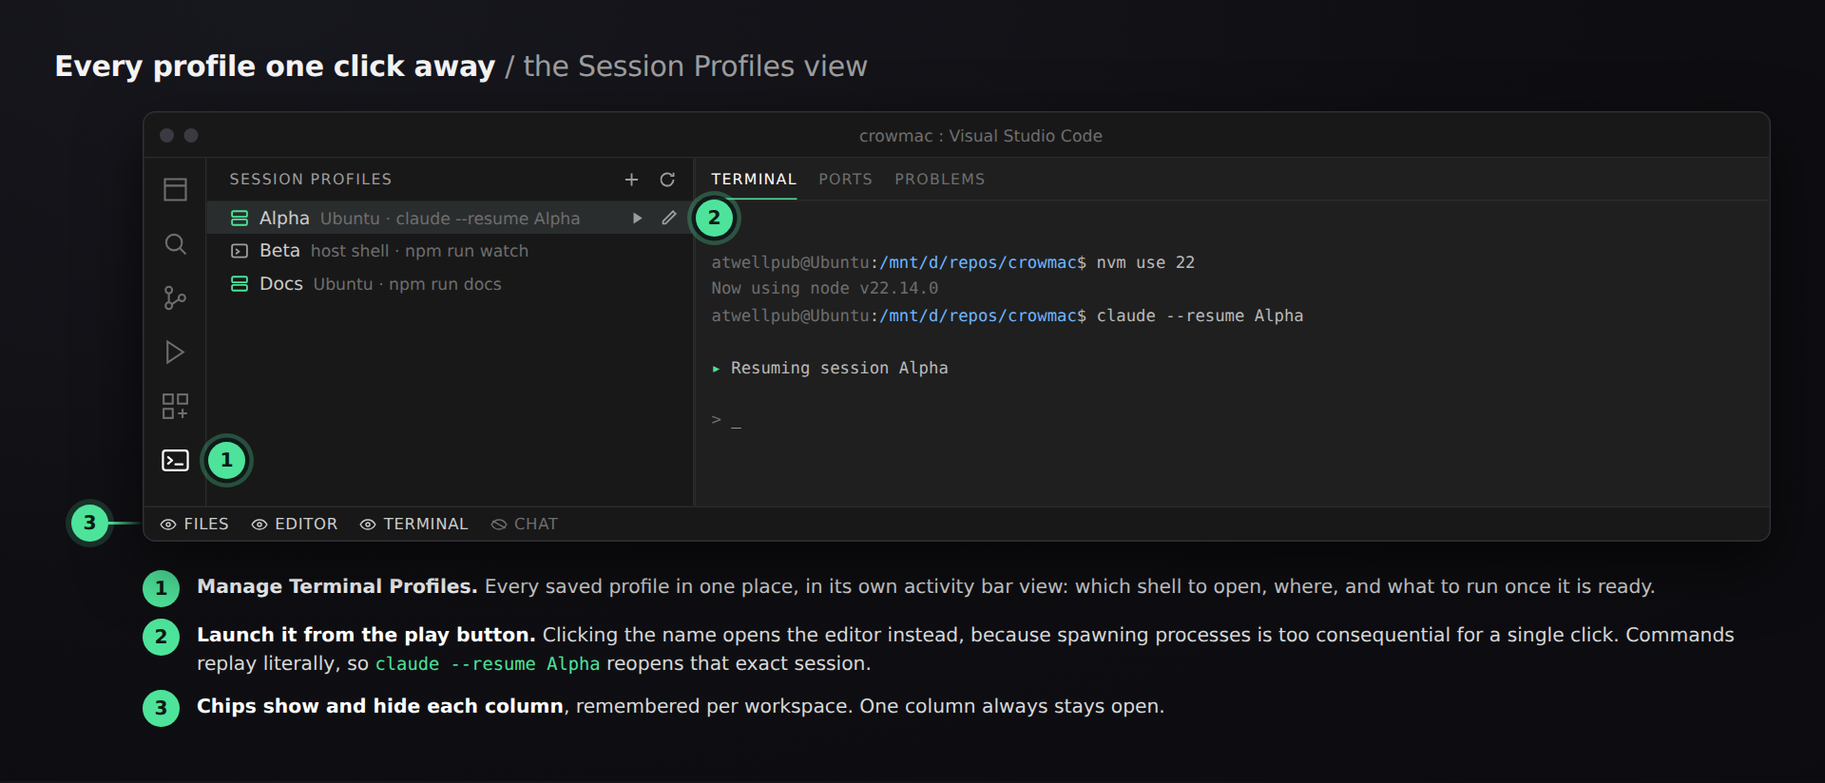
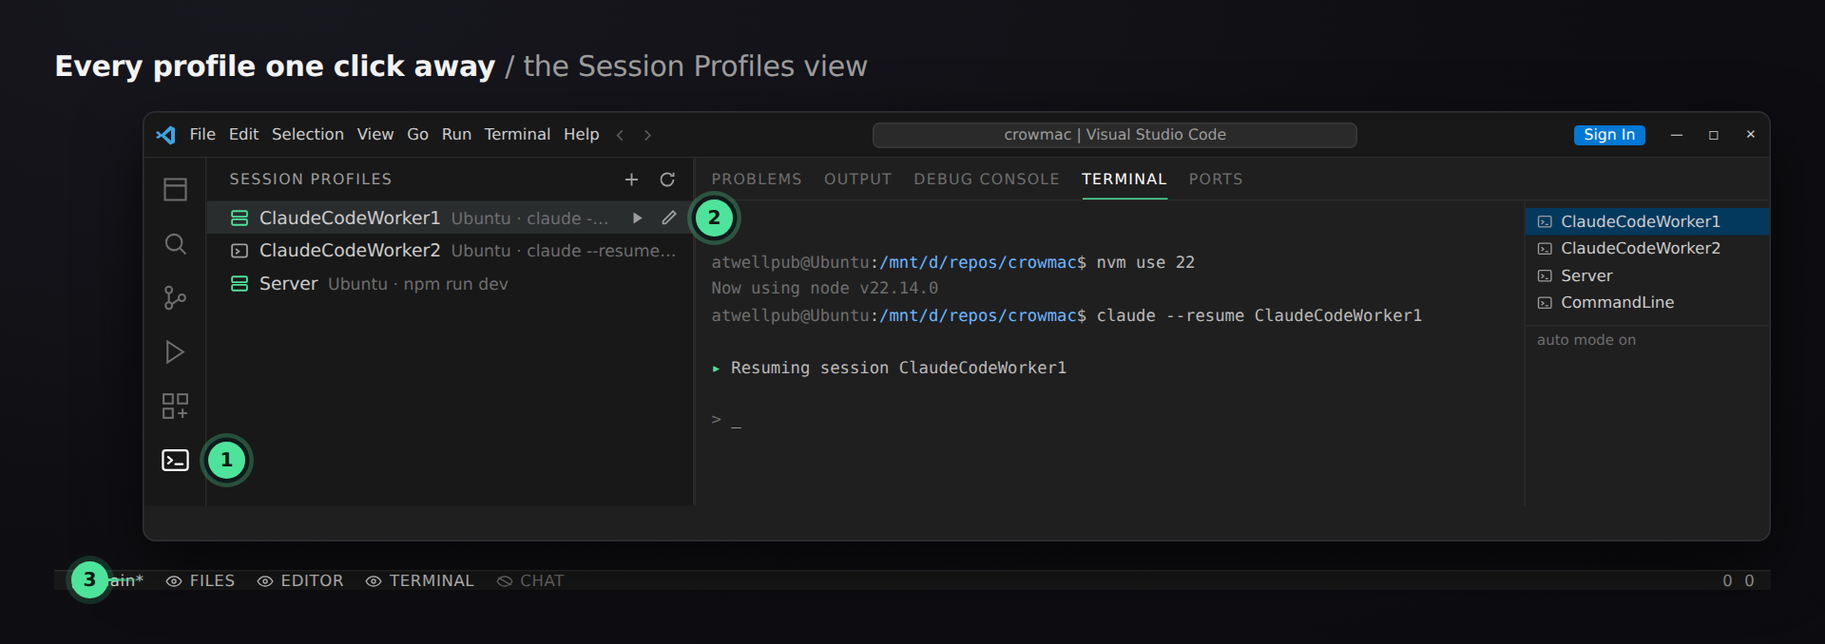
Bring the listing screenshots up to the demo's accuracy
The listing renders from screenshots.html, which had fallen behind demo.html
while the video was being fixed. It showed a two-dots-and-a-title mock with no
VS Code logo, no menu bar and, worse, no terminal list in the panel, which is
exactly where profile names surface. Anyone who watched the demo and then opened
the listing saw two different applications.

Ported from demo.html: the title bar with logo, menu, command pill, Sign In and
window controls; the real five-tab terminal row with its list; the branch and
diagnostics clusters in the status bar. The profile form gains uppercase labels
and the SAVED IN control it has shipped with since 0.3.1.

Examples renamed to ClaudeCodeWorker1/2, Server and CommandLine so the README,
the screenshots and the video finally agree. The one README mention of Alpha
that stays gone rather than renamed was a real observation from sow-001 testing
against a terminal actually called Alpha; the name is dropped so the sentence
stays true.

Deliberate duplication rather than a shared chrome module: demo.html is finished
and refactoring it to prove a DRY point would risk the 99s render for nothing a
viewer sees. Two copies is tolerable. A third is the trigger to extract.

sow-001 moves to 3_completed. Its phase line still called the restore step
outstanding; restore.ts:71-99 implements it, pid check included.

diff --git a/scripts/screenshots.html b/scripts/screenshots.html
@@ -51,7 +51,23 @@
     border: 1px solid #303038; border-radius: 9px; overflow: hidden; background: var(--bg);
     box-shadow: 0 16px 44px rgba(0,0,0,.6); display: grid; grid-template-rows: 32px 1fr 24px;
   }
-  .titlebar { background: var(--chrome); border-bottom: 1px solid var(--border); display: flex; align-items: center; gap: 7px; padding: 0 11px; }
+  .titlebar { background: var(--chrome); border-bottom: 1px solid var(--border); display: flex; align-items: center; gap: 9px; padding: 0 0 0 7px; overflow: hidden; }
+  .vslogo { width: 16px; height: 16px; flex: none; }
+  .menubar { display: flex; gap: 9px; font-size: 11px; color: #cccccc; white-space: nowrap; flex: none; }
+  .navb { display: flex; gap: 7px; color: #5a5a5a; flex: none; }
+  .navb svg { width: 12px; height: 12px; }
+  .pill { flex: 1; min-width: 0; max-width: 340px; margin: 0 auto; background: #2a2a2a; border: 1px solid #3a3a3a;
+    border-radius: 5px; height: 18px; display: flex; align-items: center; justify-content: center;
+    color: #9d9d9d; font-size: 10.5px; white-space: nowrap; overflow: hidden; }
+  .signin { background: #0078d4; color: #fff; font-size: 10.5px; border-radius: 3px; padding: 1px 7px; flex: none; }
+  .wctl { display: flex; flex: none; }
+  .wctl span { width: 26px; height: 26px; display: grid; place-items: center; color: #cfcfcf; font-size: 9px; }
+  .term-split { display: grid; grid-template-columns: 1fr 172px; min-height: 0; }
+  .term-list { border-left: 1px solid var(--border); padding: 5px 0; font-size: 11px; }
+  .term-list .ti { display: flex; align-items: center; gap: 6px; padding: 3px 8px; color: var(--text); }
+  .term-list .ti.on { background: #04395e; }
+  .term-list .ti svg { width: 11px; height: 11px; flex: none; color: var(--muted); }
+  .agentbar { border-top: 1px solid #2a2a2a; margin-top: 6px; padding: 5px 8px 0; color: var(--dim); font-size: 10px; }
   .dot { width: 10px; height: 10px; border-radius: 50%; background: #3a3a40; }
   .title { flex: 1; text-align: center; color: var(--dim); font-size: 11.5px; }
   .body { display: grid; min-height: 0; }
@@ -86,7 +102,7 @@
   .mgr-item.on { background: var(--focus); color: #fff; box-shadow: inset 2px 0 0 var(--green); }
   .form { padding: 16px 22px; display: grid; gap: 10px; align-content: start; }
   .field { display: grid; grid-template-columns: 122px 1fr; align-items: center; gap: 12px; }
-  .field label { font-size: 12px; color: var(--muted); }
+  .field label { font-size: 10.5px; letter-spacing: .07em; color: var(--muted); }
   .input { background: #2a2a2a; border: 1px solid #3a3a3a; border-radius: 3px; padding: 4px 8px; font-size: 12px; color: var(--text); font-family: var(--mono); }
   .check { display: flex; align-items: center; gap: 8px; font-size: 12px; color: var(--text); }
   .box { width: 12px; height: 12px; border-radius: 2px; background: var(--accent); position: relative; flex: none; }
@@ -141,6 +157,11 @@
         if (pin.dataset.place === 'right') {
           pin.classList.add('inline');
           pin.style.left = Math.round(r.right - s.left + 12) + 'px';
+        } else if (pin.dataset.place === 'left') {
+          // Marks a column from inside its own edge. Placing it on the right
+          // would put it over the neighbour and read as pointing at that.
+          pin.classList.add('inline');
+          pin.style.left = Math.round(r.left - s.left + 10) + 'px';
         } else {
           pin.style.left = '12px';
         }
@@ -157,7 +178,7 @@
     <div class="pin" data-target=".row.sel .inline" data-place="right">2</div>
     <div class="pin" data-target=".statusbar" data-place="gutter">3</div>
     <div class="win" style="height: 302px;">
-      <div class="titlebar"><span class="dot"></span><span class="dot"></span><div class="title">crowmac : Visual Studio Code</div></div>
+      <div class="titlebar"><svg class="vslogo" viewBox="0 0 24 24"><path d="M17.6 2.2 21.4 4a1 1 0 0 1 .6.9v14.2a1 1 0 0 1-.6.9l-3.8 1.8a1 1 0 0 1-1.1-.2L7.8 13l-3.4 2.6-1.9-1a.7.7 0 0 1 0-1.2L5.2 12 2.5 9.6a.7.7 0 0 1 0-1.2l1.9-1L7.8 11l8.7-8.6a1 1 0 0 1 1.1-.2Zm.4 4.3L11.4 12l6.6 5.5V6.5Z" fill="#3fa2e0"/></svg><div class="menubar"><span>File</span><span>Edit</span><span>Selection</span><span>View</span><span>Go</span><span>Run</span><span>Terminal</span><span>Help</span></div><div class="navb"><svg viewBox="0 0 16 16" fill="none" stroke="currentColor" stroke-width="1.5"><path d="M10 3.5 5.5 8l4.5 4.5"/></svg><svg viewBox="0 0 16 16" fill="none" stroke="currentColor" stroke-width="1.5"><path d="M6 3.5 10.5 8 6 12.5"/></svg></div><div class="pill">crowmac | Visual Studio Code</div><span class="signin">Sign In</span><div class="wctl"><span>&#8212;</span><span>&#9723;</span><span>&#10005;</span></div></div>
       <div class="body" style="grid-template-columns: 44px 342px 1fr;">
         <div class="activity">
           <svg class="act" viewBox="0 0 24 24" fill="none" stroke="currentColor" stroke-width="1.5"><path d="M4 4h16v16H4z"/><path d="M4 9h16"/></svg>
@@ -176,7 +197,7 @@
           </div>
           <div class="row sel">
             <svg class="ico" viewBox="0 0 16 16" fill="none" stroke="var(--green)" stroke-width="1.4"><rect x="2" y="2.5" width="12" height="4.5" rx="1"/><rect x="2" y="9" width="12" height="4.5" rx="1"/></svg>
-            <span>Alpha</span><span class="desc">Ubuntu &middot; claude --resume Alpha</span>
+            <span>ClaudeCodeWorker1</span><span class="desc">Ubuntu &middot; claude --resume ClaudeCodeWorker1</span>
             <span class="inline">
               <svg class="ico" viewBox="0 0 16 16" fill="currentColor"><path d="M5 3.5l7 4.5-7 4.5z"/></svg>
               <svg class="ico" viewBox="0 0 16 16" fill="none" stroke="currentColor" stroke-width="1.4"><path d="M11.5 2.5l2 2-8 8H3.5v-2z"/></svg>
@@ -184,37 +205,40 @@
           </div>
           <div class="row">
             <svg class="ico" viewBox="0 0 16 16" fill="none" stroke="var(--muted)" stroke-width="1.4"><rect x="2" y="3" width="12" height="10" rx="1.5"/><path d="M5 6.5L7.5 8.5 5 10.5"/></svg>
-            <span>Beta</span><span class="desc">host shell &middot; npm run watch</span>
+            <span>ClaudeCodeWorker2</span><span class="desc">Ubuntu &middot; claude --resume ClaudeCodeWorker2</span>
           </div>
           <div class="row">
             <svg class="ico" viewBox="0 0 16 16" fill="none" stroke="var(--green)" stroke-width="1.4"><rect x="2" y="2.5" width="12" height="4.5" rx="1"/><rect x="2" y="9" width="12" height="4.5" rx="1"/></svg>
-            <span>Docs</span><span class="desc">Ubuntu &middot; npm run docs</span>
+            <span>Server</span><span class="desc">Ubuntu &middot; npm run dev</span>
           </div>
         </div>
         <div class="term">
-          <div class="term-head"><span class="on">TERMINAL</span><span>PORTS</span><span>PROBLEMS</span></div>
-          <div class="term-body" style="padding-top:34px">
+            <div class="term-head"><span>PROBLEMS</span><span>OUTPUT</span><span>DEBUG CONSOLE</span><span class="on">TERMINAL</span><span>PORTS</span></div>
+            <div class="term-split">
+              <div class="term-body" style="padding-top:34px">
             <div><span class="d">atwellpub@Ubuntu</span>:<span class="b">/mnt/d/repos/crowmac</span>$ nvm use 22</div>
             <div class="d">Now using node v22.14.0</div>
-            <div><span class="d">atwellpub@Ubuntu</span>:<span class="b">/mnt/d/repos/crowmac</span>$ claude --resume Alpha</div>
+            <div><span class="d">atwellpub@Ubuntu</span>:<span class="b">/mnt/d/repos/crowmac</span>$ claude --resume ClaudeCodeWorker1</div>
             <div class="d">&nbsp;</div>
-            <div><span class="g">&#9656;</span> Resuming session Alpha</div>
+            <div><span class="g">&#9656;</span> Resuming session ClaudeCodeWorker1</div>
             <div class="d">&nbsp;</div>
-            <div><span class="d">&gt;</span> <span style="color:#e8e8e8">_</span></div>
-          </div>
+            <div><span class="d">&gt;</span> <span style="color:#e8e8e8">_</span></div></div>
+              <div class="term-list"><div class="ti on"><svg viewBox="0 0 16 16" fill="none" stroke="currentColor" stroke-width="1.3"><rect x="1.5" y="2.5" width="13" height="11" rx="1.5"/><path d="M4.5 6.5 6.8 8.5 4.5 10.5"/><path d="M8.5 11h3"/></svg><span>ClaudeCodeWorker1</span></div><div class="ti"><svg viewBox="0 0 16 16" fill="none" stroke="currentColor" stroke-width="1.3"><rect x="1.5" y="2.5" width="13" height="11" rx="1.5"/><path d="M4.5 6.5 6.8 8.5 4.5 10.5"/><path d="M8.5 11h3"/></svg><span>ClaudeCodeWorker2</span></div><div class="ti"><svg viewBox="0 0 16 16" fill="none" stroke="currentColor" stroke-width="1.3"><rect x="1.5" y="2.5" width="13" height="11" rx="1.5"/><path d="M4.5 6.5 6.8 8.5 4.5 10.5"/><path d="M8.5 11h3"/></svg><span>Server</span></div><div class="ti"><svg viewBox="0 0 16 16" fill="none" stroke="currentColor" stroke-width="1.3"><rect x="1.5" y="2.5" width="13" height="11" rx="1.5"/><path d="M4.5 6.5 6.8 8.5 4.5 10.5"/><path d="M8.5 11h3"/></svg><span>CommandLine</span></div><div class="agentbar">auto mode on</div></div>
+            </div>
+          </div></div>
         </div>
       </div>
-      <div class="statusbar">
+      <div class="statusbar"><span class="chip" style="color:#cfcfcf"><svg class="eye" viewBox="0 0 16 16" fill="none" stroke="currentColor" stroke-width="1.3"><circle cx="4.5" cy="3.5" r="1.8"/><circle cx="4.5" cy="12.5" r="1.8"/><circle cx="11.5" cy="8" r="1.8"/><path d="M4.5 5.3v5.4M6.2 11.4 9.9 9.1"/></svg>main*</span>
         <span class="chip"><svg class="eye" viewBox="0 0 16 16" fill="none" stroke="currentColor" stroke-width="1.3"><path d="M1 8s2.5-4.5 7-4.5S15 8 15 8s-2.5 4.5-7 4.5S1 8 1 8z"/><circle cx="8" cy="8" r="1.8"/></svg>FILES</span>
         <span class="chip"><svg class="eye" viewBox="0 0 16 16" fill="none" stroke="currentColor" stroke-width="1.3"><path d="M1 8s2.5-4.5 7-4.5S15 8 15 8s-2.5 4.5-7 4.5S1 8 1 8z"/><circle cx="8" cy="8" r="1.8"/></svg>EDITOR</span>
         <span class="chip"><svg class="eye" viewBox="0 0 16 16" fill="none" stroke="currentColor" stroke-width="1.3"><path d="M1 8s2.5-4.5 7-4.5S15 8 15 8s-2.5 4.5-7 4.5S1 8 1 8z"/><circle cx="8" cy="8" r="1.8"/></svg>TERMINAL</span>
-        <span class="chip off"><svg class="eye" viewBox="0 0 16 16" fill="none" stroke="currentColor" stroke-width="1.3"><path d="M2 4.5l12 7"/><path d="M1 8s2.5-4.5 7-4.5S15 8 15 8s-2.5 4.5-7 4.5S1 8 1 8z"/></svg>CHAT</span>
+        <span class="chip off"><svg class="eye" viewBox="0 0 16 16" fill="none" stroke="currentColor" stroke-width="1.3"><path d="M2 4.5l12 7"/><path d="M1 8s2.5-4.5 7-4.5S15 8 15 8s-2.5 4.5-7 4.5S1 8 1 8z"/></svg>CHAT</span><span class="chip" style="margin-left:auto;color:#9d9d9d">0 &nbsp;0</span>
       </div>
     </div>
   </div>
   <div class="notes">
     <div class="note"><div class="num">1</div><p><b>Manage Terminal Profiles.</b> Every saved profile in one place, in its own activity bar view. Each is a saved terminal setup: which shell to open, where, and what to run once it is ready.</p></div>
-    <div class="note"><div class="num">2</div><p><b>Launch it from the play button.</b> Clicking the name opens the editor instead, because spawning processes is too consequential for a single click. Commands replay literally, so <code>claude --resume Alpha</code> reopens that exact session.</p></div>
+    <div class="note"><div class="num">2</div><p><b>Launch it from the play button.</b> Clicking the name opens the editor instead, because spawning processes is too consequential for a single click. Commands replay literally, so <code>claude --resume ClaudeCodeWorker1</code> reopens that exact session.</p></div>
     <div class="note"><div class="num">3</div><p><b>Chips show and hide each column</b>, remembered per workspace. One column always stays open.</p></div>
   </div>
 </div>
@@ -227,21 +251,21 @@
     <div class="pin" data-target=".form .check" data-place="gutter">2</div>
     <div class="pin" data-target=".form .cmd" data-place="gutter">3</div>
     <div class="win" style="height: 392px;">
-      <div class="titlebar"><span class="dot"></span><span class="dot"></span><div class="title">crowmac : Visual Studio Code</div></div>
+      <div class="titlebar"><svg class="vslogo" viewBox="0 0 24 24"><path d="M17.6 2.2 21.4 4a1 1 0 0 1 .6.9v14.2a1 1 0 0 1-.6.9l-3.8 1.8a1 1 0 0 1-1.1-.2L7.8 13l-3.4 2.6-1.9-1a.7.7 0 0 1 0-1.2L5.2 12 2.5 9.6a.7.7 0 0 1 0-1.2l1.9-1L7.8 11l8.7-8.6a1 1 0 0 1 1.1-.2Zm.4 4.3L11.4 12l6.6 5.5V6.5Z" fill="#3fa2e0"/></svg><div class="menubar"><span>File</span><span>Edit</span><span>Selection</span><span>View</span><span>Go</span><span>Run</span><span>Terminal</span><span>Help</span></div><div class="navb"><svg viewBox="0 0 16 16" fill="none" stroke="currentColor" stroke-width="1.5"><path d="M10 3.5 5.5 8l4.5 4.5"/></svg><svg viewBox="0 0 16 16" fill="none" stroke="currentColor" stroke-width="1.5"><path d="M6 3.5 10.5 8 6 12.5"/></svg></div><div class="pill">crowmac | Visual Studio Code</div><span class="signin">Sign In</span><div class="wctl"><span>&#8212;</span><span>&#9723;</span><span>&#10005;</span></div></div>
       <div class="body">
         <div class="pane">
           <div class="tabs"><div class="tab on">Terminal Session Profiles</div><div class="tab">engine.ts</div></div>
           <div class="mgr">
             <div class="mgr-list">
               <div class="mgr-head"><span>PROFILES</span><span>+</span></div>
-              <div class="mgr-item on">Alpha</div>
-              <div class="mgr-item">Beta</div>
-              <div class="mgr-item">Docs</div>
+              <div class="mgr-item on">ClaudeCodeWorker1</div>
+              <div class="mgr-item">ClaudeCodeWorker2</div>
+              <div class="mgr-item">Server</div>
             </div>
             <div class="form">
-              <div class="field"><label>Name</label><div class="input">Alpha</div></div>
-              <div class="field"><label>Shell</label><div class="input">Ubuntu (WSL)</div></div>
-              <div class="field"><label>Working directory</label><div class="input">/mnt/d/repos/crowmac</div></div>
+              <div class="field"><label>NAME</label><div class="input">ClaudeCodeWorker1</div></div>
+              <div class="field"><label>SHELL</label><div class="input">Ubuntu (WSL)</div></div>
+              <div class="field"><label>WORKING DIRECTORY</label><div class="input">/mnt/d/repos/crowmac</div></div>
               <div class="check"><span class="box"></span> Show in the terminal + dropdown</div>
               <div class="cmd-head"><span></span><span>RUN</span><span>WAIT (MS)</span><span></span></div>
               <div class="cmd">
@@ -253,7 +277,7 @@
                 </span>
               </div>
               <div class="cmd">
-                <span class="idx">2</span><div class="input">claude --resume Alpha</div><div class="input">5000</div>
+                <span class="idx">2</span><div class="input">claude --resume ClaudeCodeWorker1</div><div class="input">5000</div>
                 <span class="acts">
                   <svg class="ico" viewBox="0 0 16 16" fill="none" stroke="currentColor" stroke-width="1.4"><path d="M8 12.5v-9M4.5 7L8 3.5 11.5 7"/></svg>
                   <svg class="ico" viewBox="0 0 16 16" fill="none" stroke="currentColor" stroke-width="1.4"><path d="M8 3.5v9M4.5 9L8 12.5 11.5 9"/></svg>
@@ -265,8 +289,8 @@
           </div>
         </div>
       </div>
-      <div class="statusbar">
-        <span class="chip">FILES</span><span class="chip">EDITOR</span><span class="chip">TERMINAL</span><span class="chip off">CHAT</span>
+      <div class="statusbar"><span class="chip" style="color:#cfcfcf"><svg class="eye" viewBox="0 0 16 16" fill="none" stroke="currentColor" stroke-width="1.3"><circle cx="4.5" cy="3.5" r="1.8"/><circle cx="4.5" cy="12.5" r="1.8"/><circle cx="11.5" cy="8" r="1.8"/><path d="M4.5 5.3v5.4M6.2 11.4 9.9 9.1"/></svg>main*</span>
+        <span class="chip">FILES</span><span class="chip">EDITOR</span><span class="chip">TERMINAL</span><span class="chip off">CHAT</span><span class="chip" style="margin-left:auto;color:#9d9d9d">0 &nbsp;0</span>
       </div>
     </div>
   </div>
@@ -281,11 +305,11 @@
 <div class="frame" id="shot-columns">
   <div class="caption">Four columns, one keystroke each <span>/ Ctrl+Alt+1 to 4</span></div>
   <div class="stage">
-    <div class="pin" data-target=".sidebar" data-place="gutter">1</div>
-    <div class="pin" data-target=".term" data-place="gutter">2</div>
+    <div class="pin" data-target=".sidebar" data-place="right">1</div>
+    <div class="pin" data-target=".term" data-place="left">2</div>
     <div class="pin" data-target=".statusbar" data-place="gutter">3</div>
     <div class="win" style="height: 322px;">
-      <div class="titlebar"><span class="dot"></span><span class="dot"></span><div class="title">crowmac : Visual Studio Code</div></div>
+      <div class="titlebar"><svg class="vslogo" viewBox="0 0 24 24"><path d="M17.6 2.2 21.4 4a1 1 0 0 1 .6.9v14.2a1 1 0 0 1-.6.9l-3.8 1.8a1 1 0 0 1-1.1-.2L7.8 13l-3.4 2.6-1.9-1a.7.7 0 0 1 0-1.2L5.2 12 2.5 9.6a.7.7 0 0 1 0-1.2l1.9-1L7.8 11l8.7-8.6a1 1 0 0 1 1.1-.2Zm.4 4.3L11.4 12l6.6 5.5V6.5Z" fill="#3fa2e0"/></svg><div class="menubar"><span>File</span><span>Edit</span><span>Selection</span><span>View</span><span>Go</span><span>Run</span><span>Terminal</span><span>Help</span></div><div class="navb"><svg viewBox="0 0 16 16" fill="none" stroke="currentColor" stroke-width="1.5"><path d="M10 3.5 5.5 8l4.5 4.5"/></svg><svg viewBox="0 0 16 16" fill="none" stroke="currentColor" stroke-width="1.5"><path d="M6 3.5 10.5 8 6 12.5"/></svg></div><div class="pill">crowmac | Visual Studio Code</div><span class="signin">Sign In</span><div class="wctl"><span>&#8212;</span><span>&#9723;</span><span>&#10005;</span></div></div>
       <div class="body" style="grid-template-columns: 44px 190px 1fr 260px 232px;">
         <div class="activity">
           <svg class="act on" viewBox="0 0 24 24" fill="none" stroke="currentColor" stroke-width="1.5"><path d="M4 4h16v16H4z"/><path d="M4 9h16"/></svg>
@@ -300,33 +324,31 @@
         </div>
         <div class="pane">
           <div class="tabs"><div class="tab on">engine.ts</div></div>
-          <div class="term-body">
-            <div><span class="b">async</span> apply(): <span class="g">Promise</span>&lt;<span class="b">void</span>&gt; {</div>
-            <div>&nbsp;&nbsp;<span class="b">for</span> (<span class="b">const</span> def <span class="b">of</span> <span class="b">this</span>.applyOrder) {</div>
-            <div>&nbsp;&nbsp;&nbsp;&nbsp;<span class="d">// the editor column goes last</span></div>
-            <div>&nbsp;&nbsp;}</div>
-            <div>}</div>
+            <div class="term-body">
+              <div><span class="b">async</span> apply(): <span class="g">Promise</span>&lt;<span class="b">void</span>&gt; {</div>
+              <div>&nbsp;&nbsp;<span class="b">for</span> (<span class="b">const</span> def <span class="b">of</span> <span class="b">this</span>.applyOrder) {</div>
+              <div>&nbsp;&nbsp;&nbsp;&nbsp;<span class="d">// the editor column goes last</span></div>
+              <div>&nbsp;&nbsp;}</div>
+              <div>}</div>
+            </div>
           </div>
-        </div>
-        <div class="term">
-          <div class="term-head"><span class="on">TERMINAL</span><span>PORTS</span></div>
-          <div class="term-body">
-            <div class="d">Alpha</div>
-            <div><span class="g">&#9656;</span> claude --resume Alpha</div>
+          <div class="term">
+            <div class="term-head"><span>PROBLEMS</span><span>OUTPUT</span><span class="on">TERMINAL</span><span>PORTS</span></div>
+            <div class="term-body">
+            <div class="d">ClaudeCodeWorker1</div>
+            <div><span class="g">&#9656;</span> claude --resume ClaudeCodeWorker1</div>
             <div class="d">&nbsp;</div>
-            <div class="d">Beta</div>
-            <div><span class="g">&#9656;</span> npm run watch</div>
-          </div>
-        </div>
+            <div class="d">ClaudeCodeWorker2</div>
+            <div><span class="g">&#9656;</span> npm run watch</div></div></div>
         <div class="aux">
           <div class="aux-h">CHAT</div>
           <div class="bubble">Bring back the layout I had on Friday.</div>
-          <div class="bubble">Reopened Alpha and Beta. Docs was still running, so I left it alone.</div>
+          <div class="bubble">Reopened both Claude workers. Server was still running, so I left it alone.</div>
         </div>
       </div>
-      <div class="statusbar">
+      <div class="statusbar"><span class="chip" style="color:#cfcfcf"><svg class="eye" viewBox="0 0 16 16" fill="none" stroke="currentColor" stroke-width="1.3"><circle cx="4.5" cy="3.5" r="1.8"/><circle cx="4.5" cy="12.5" r="1.8"/><circle cx="11.5" cy="8" r="1.8"/><path d="M4.5 5.3v5.4M6.2 11.4 9.9 9.1"/></svg>main*</span>
         <span class="chip hl">FILES</span><span class="chip hl">EDITOR</span><span class="chip hl">TERMINAL</span><span class="chip hl">CHAT</span>
-        <span style="margin-left:auto;color:var(--dim)">Ctrl+Alt+1 &middot; 2 &middot; 3 &middot; 4</span>
+        <span style="margin-left:auto;color:var(--dim)">Ctrl+Alt+1 &middot; 2 &middot; 3 &middot; 4</span><span class="chip" style="margin-left:auto;color:#9d9d9d">0 &nbsp;0</span>
       </div>
     </div>
   </div>

diff --git a/README.md b/README.md
@@ -12,7 +12,7 @@ Save a terminal as a reusable **session profile** (which shell to open, where, a
 ext install GBTI.gbti-terminal-sessions
 ```
 
-![Every profile one click away: the Session Profiles view, with a profile launching claude --resume Alpha in the terminal column](.product/public/01-profiles.png)
+![Every profile one click away: the Session Profiles view, with a profile launching claude --resume ClaudeCodeWorker1 in the terminal column](.product/public/01-profiles.png)
 
 ## Session profiles
 
@@ -34,7 +34,7 @@ A profile is usually *about* a project: it names that project's directory and ru
 
 Profiles mirrored into the terminal `+` dropdown are written at their own scope too, so a project's profile does not turn up in another project's dropdown.
 
-Commands run in order once shell integration reports ready. **Every command but the last is awaited**, so a long-lived process such as `claude` belongs last. They are stored and replayed **literally**: write `claude --resume Alpha` to reopen that exact session every time the profile launches, or `claude --continue` to rejoin whatever ran last in that directory.
+Commands run in order once shell integration reports ready. **Every command but the last is awaited**, so a long-lived process such as `claude` belongs last. They are stored and replayed **literally**: write `claude --resume ClaudeCodeWorker1` to reopen that exact session every time the profile launches, or `claude --continue` to rejoin whatever ran last in that directory.
 
 ![Every field at once: the profile editor with name, shell, working directory and an ordered command list](.product/public/02-editor.png)
 
@@ -48,7 +48,7 @@ Extensions cannot read or set view locations, so this is recovery rather than pr
 
 Out of the box, closing a VS Code **window** loses your terminals entirely. `terminal.integrated.persistentSessionReviveProcess` defaults to `onExit`, which means *application* exit, so a window close or a stopped debug session takes them with it. Terminal Sessions widens that to `onExitAndWindowClose`, and that alone is what makes the tabs come back.
 
-Tabs are only half of it, though. A revived tab is a fresh **default-profile** shell with your old scrollback replayed into it: the name is right and the text looks familiar, but the shell is wrong and nothing is running. In testing, an `Alpha` tab that had been Ubuntu with `claude` in it came back as a bare `PS D:\...>` prompt.
+Tabs are only half of it, though. A revived tab is a fresh **default-profile** shell with your old scrollback replayed into it: the name is right and the text looks familiar, but the shell is wrong and nothing is running. In testing, a tab that had been Ubuntu with `claude` running in it came back as a bare `PS D:\...>` prompt.
 
 So the extension does the other half too. Launched profiles are remembered per workspace, and on startup each revived tab whose name matches a saved profile is disposed and relaunched as that profile, in the right shell, with its commands replayed. Automatic by default, governed by `terminalSessions.autoRestoreSession`. **Restore Last Session** in the palette re-runs it, for the one case automation misses: after closing a restored terminal by hand.
 
